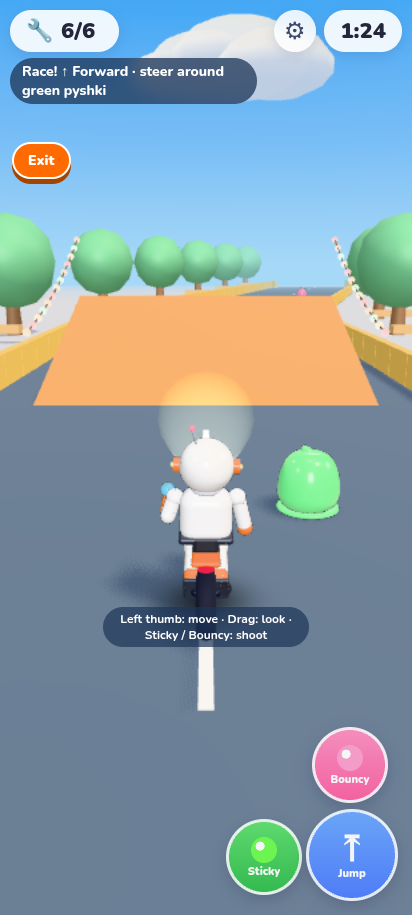
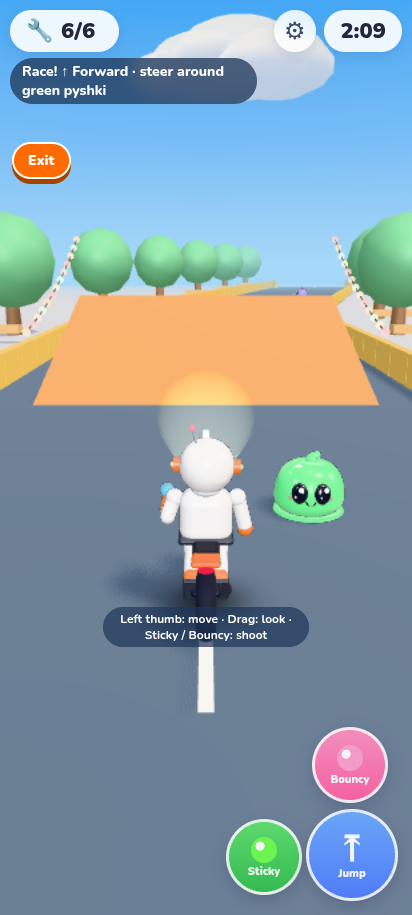
Lengthen both race courses ~1.5x with new ramps and scenery; length-scaled race timer

diff --git a/src/sim/track.ts b/src/sim/track.ts
@@ -48,19 +48,19 @@ export function courseNear(c: Course, x: number, z: number) {
   return best;
 }
 
-// Level 1: northbound city-to-park-to-market road.
+// Level 1: northbound city-to-park-to-market road, then a second park/boardwalk lap of S-bends.
 export const COURSE1 = makeCourse(
-  [[80, 15], [80, -55], [98, -120], [80, -190], [62, -260], [80, -330], [98, -400], [80, -470], [80, -535]],
-  { jumps: [45, 145, 245, 350, 455], optionalJump: 350, gap: { start: 358, end: 363 }, rampHeight: 2.7, rampLength: 8, rail: 6.1 },
+  [[80, 15], [80, -55], [98, -120], [80, -190], [62, -260], [80, -330], [98, -400], [80, -470], [80, -535], [62, -600], [80, -670], [98, -740], [80, -810], [80, -840]],
+  { jumps: [45, 145, 245, 350, 455, 575, 690, 790], optionalJump: 350, gap: { start: 358, end: 363 }, rampHeight: 2.7, rampLength: 8, rail: 6.1 },
 );
 
-// Level 2: coastal road, pier boardwalk with an optional gap, then a loop round the lighthouse. Smaller ramps for the scooter.
+// Level 2: coastal road, pier boardwalk with an optional gap, a loop round the lighthouse, then the cliff road home. Smaller ramps for the scooter.
 export const COURSE2 = makeCourse(
-  [[120, 10], [120, -40], [135, -90], [120, -140], [135, -190], [135, -290], [135, -330], [150, -356], [180, -356], [195, -330], [205, -300], [205, -250]],
-  { jumps: [20, 120, 225, 255, 480], optionalJump: 255, gap: { start: 262, end: 267 }, rampHeight: 1.8, rampLength: 7, rail: 6.1 },
+  [[120, 10], [120, -40], [135, -90], [120, -140], [135, -190], [135, -290], [135, -330], [150, -356], [180, -356], [195, -330], [205, -300], [205, -250], [190, -190], [205, -130], [205, -60], [190, -10]],
+  { jumps: [20, 120, 225, 255, 480, 575, 660, 730], optionalJump: 255, gap: { start: 262, end: 267 }, rampHeight: 1.8, rampLength: 7, rail: 6.1 },
 );
 /** progress where the boardwalk starts and ends, and the lighthouse the loop goes round */
-export const COURSE2_SECTIONS = { boardwalk: [206.6, 306.6], lighthouse: { x: 167, z: -322 } };
+export const COURSE2_SECTIONS = { boardwalk: [206.6, 306.6], lighthouse: { x: 167, z: -322 }, cliffRoad: 535 };
 
 // Level 1 names kept for existing callers and tests.
 export const TRACK = COURSE1.points;

diff --git a/src/render/raceRoad.ts b/src/render/raceRoad.ts
@@ -93,7 +93,7 @@ const edges = TRACK.map((_, i) => {
     for (let d = start + 8; d < end; d += 14) {
       const p = trackAt(d);
       if (harbor) { harborScenery(k, d, p); continue; }
-      const section = Math.floor(start / 140);
+      const section = Math.floor(start / 140) % 4; // park, boardwalk, viaduct, market, then round again
       for (const side of [-1, 1]) {
         const x = p.x - p.dz * side * 11, z = p.z + p.dx * side * 11;
         if (section === 0) {
@@ -187,7 +187,7 @@ const edges = TRACK.map((_, i) => {
 function harborScenery(k: Kit, d: number, p: { x: number; z: number; dx: number; dz: number; yaw: number }) {
   const [boardFrom, boardTo] = COURSE2_SECTIONS.boardwalk;
   const side = (s: number, o: number) => [p.x - p.dz * s * o, p.z + p.dx * s * o] as const;
-  if (d < boardFrom) {
+  if (d < boardFrom || d > COURSE2_SECTIONS.cliffRoad) {
     const [lx, lz] = side(1, 16);
     k.add(new THREE.BoxGeometry(18, 2.4, 15), 0x8cbf5a, { p: [lx, 0.9, lz], r: [0, p.yaw, 0], cast: false });
     k.add(new THREE.BoxGeometry(18.2, 2, 15.2), 0xd8c08a, { p: [lx, -0.2, lz], r: [0, p.yaw, 0], cast: false });

diff --git a/src/sim/levels.ts b/src/sim/levels.ts
@@ -30,9 +30,10 @@ export interface LevelDef {
   tower: boolean;
 }
 
-/** Timer: course length at 75% of stock top speed, 35% slack, plus time for weaving through pyshki. */
+/** Timer: course length at 75% of stock top speed, 30% slack, plus ~1 s per 70 m for weaving through pyshki.
+ *  Stars, rings, tricks and hooligan hits add bonus seconds on top. */
 export function raceDuration(course: Course, topSpeed: number) {
-  return Math.ceil(course.length / (topSpeed * 0.75) * 1.35) + 6;
+  return Math.ceil(course.length / (topSpeed * 0.75) * 1.3 + course.length / 70);
 }
 
 const LEVEL1: LevelDef = {

diff --git a/src/sim/race.ts b/src/sim/race.ts
@@ -5,7 +5,7 @@ import { VEHICLES } from './vehicles';
 
 // Level 1 values kept for existing callers and tests.
 const L1 = levelDef(1).race!;
-export const RACE = { x: 80, start: 15, finish: -535, duration: L1.duration };
+export const RACE = { x: 80, start: 15, finish: -840, duration: L1.duration };
 export const GATE = L1.gate;
 
 export const raceOf = (s: GameState) => levelDef(s.level).race;

diff --git a/src/sim/world.ts b/src/sim/world.ts
@@ -21,7 +21,7 @@ export const CREATURE_SPAWNS: { x: number; z: number }[] = [
 ];
 
 export function createWorld(): World {
-  const half = 620;
+  const half = 900; // the race road runs ~860 m north
   const buildings: Building[] = [];
   let ci = 0;
   const b = (minX: number, minZ: number, maxX: number, maxZ: number, height: number, mansard = true) => {

diff --git a/PROGRESS.md b/PROGRESS.md
@@ -100,3 +100,10 @@ Tests:
 - R6.5: Fixes from screenshot review: level-1 toasts no longer carry into level 2 (`hud.clearPopups()` on start), sea crests/glints fade with distance (no far-water aliasing), race shot moved off the ramp. Repaired tests/round3.e2e.mjs, which had failed since the R4 curved course (straight-line driver and 60 s timer): it now uses a look-ahead steering driver via the new `__game.raceCourse` hook and ticks past the real remaining time; it passes, as does tests/round4.e2e.mjs.
 - R6 validation: final `npm run test:e2e` passes (desktop + mobile e2e, round7, round9; no console errors). Harbor area 332 calls / 509k tris, level-2 race 160–218 calls. shots/r9-l2-{area,parts,garage-scooter,race,finish}.png saved at 412x915 and inspected. No push.
 - R13.1 (Round 7 item 1): Level 1 has a 6th required part, the FLASHLIGHT (bike headlight), on the tower's mid floor by the south windows; reachable only via the elevator's mid stop (`MissionDef.liftOnly`). A warm flickering additive glow shows in the mid-floor windows while it is up there. A new lobby pyshka (`LevelDef.hintSpawn`, `Creature.hinter`) keeps near the elevator and says a localized hint every 6–9 s (EN/RU/PL/LT/DE, e.g. RU «Говорят, наверху кто-то фонарик потерял…»). The bike assembles from the 5 core parts (`VehiclePartDef.accessory`), but the gate stays locked (`raceReady`) until the flashlight is fitted, which shows a lit headlight with an additive beam. HUD counts 6/6; objectives, hints, part names and toasts for level 1 are now localized in PL/LT/DE as well. `__game.reach()` checks elevator-only parts from the mid stop and requires them NOT to be walkable. The sim test walks onto the lift, rides up and collects all 6. Sweep checks the flashlight is off the walking graph and on the mid-floor graph. Collider face contact now uses a 1e-6 epsilon, so walk paths that touch a face exactly no longer stall. City spawn view is 381 calls / 585k tris. Build, sim and sweep pass.
+- R13.2 (item 2): Race courses are about 1.5× longer.
+  - Level 1: 563.8 → 878.1 m. A second lap of S-bends runs north to z = −840, with three new ramps at 575/690/790. Scenery cycles park → boardwalk → viaduct → market. The city world half grew to 900 m.
+  - Level 2: 518 → 764.2 m. The cliff road goes home past the lighthouse, with three new ramps at 575/660/730 and pine cliffs after 535 m.
+  - Chunked 70 m culling is unchanged.
+  - Timer is now length / (0.75 · top) · 1.3 + length / 70. Pyshki traffic scales with length (seed 93 timed out 11 m short with the old flat +6 s). This gives level 1 130 s and level 2 106 s.
+  - Bots finish in 117 s (L1) and 75–80 s (L2); all 7 sweep bots finish. Bonus extras will add on top.
+  - Build, sim and sweep pass.
